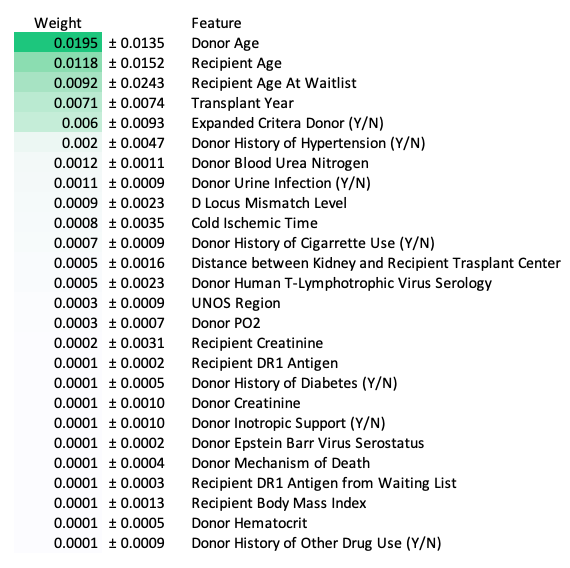
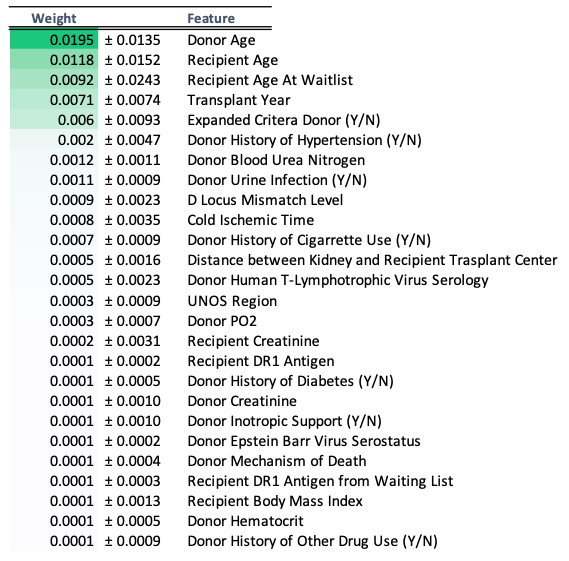
Updated Feature importances table with bold header

Changed region(s): [[0.0, 0.0, 0.9859, 1.0]]

diff --git a/README.md b/README.md
@@ -77,7 +77,7 @@ Random Survival Forests training and hyperparameter tuning was performed on [Goo
 The hyperparameter optimization metric was Harrell's Concordance Index. Harrell's concordance index measures whether for two random individuals, the individual with a higher estimated risk score has a shorter actual survival time. A concordance index of 1 would indicate perfect concordance of predictions.<sup>[10](https://scikit-survival.readthedocs.io/en/latest/api/generated/sksurv.metrics.concordance_index_censored.html)</sup> The optimal concordance index value was 0.621 with parameters of `n_estimators` = 300, `min_sample_split` = 0.05, and `min_samples_leaf` = 0.05.
 
 #### Feature Importance
-Feature importance was obtained using the [`eli5` `PermutationImportance`](https://eli5.readthedocs.io/en/latest/blackbox/permutation_importance.html) method, as outlined in the `scikit-survival` Random Survival Forests documentation.<sup>[11](https://scikit-survival.readthedocs.io/en/latest/user_guide/random-survival-forest.html)</sup> The top 26 features had non-zero weights, and were selected for further modeling with `DeepSurv`. These features are shown below.
+Feature importance was obtained using the [`eli5` `PermutationImportance`](https://eli5.readthedocs.io/en/latest/blackbox/permutation_importance.html) method, as outlined in the `scikit-survival` Random Survival Forests documentation.<sup>[11](https://scikit-survival.readthedocs.io/en/latest/user_guide/random-survival-forest.html)</sup> The top 26 features had non-zero weights, and were selected for further modeling with `DeepSurv`. These features and their weights are shown below.
 
 
 
